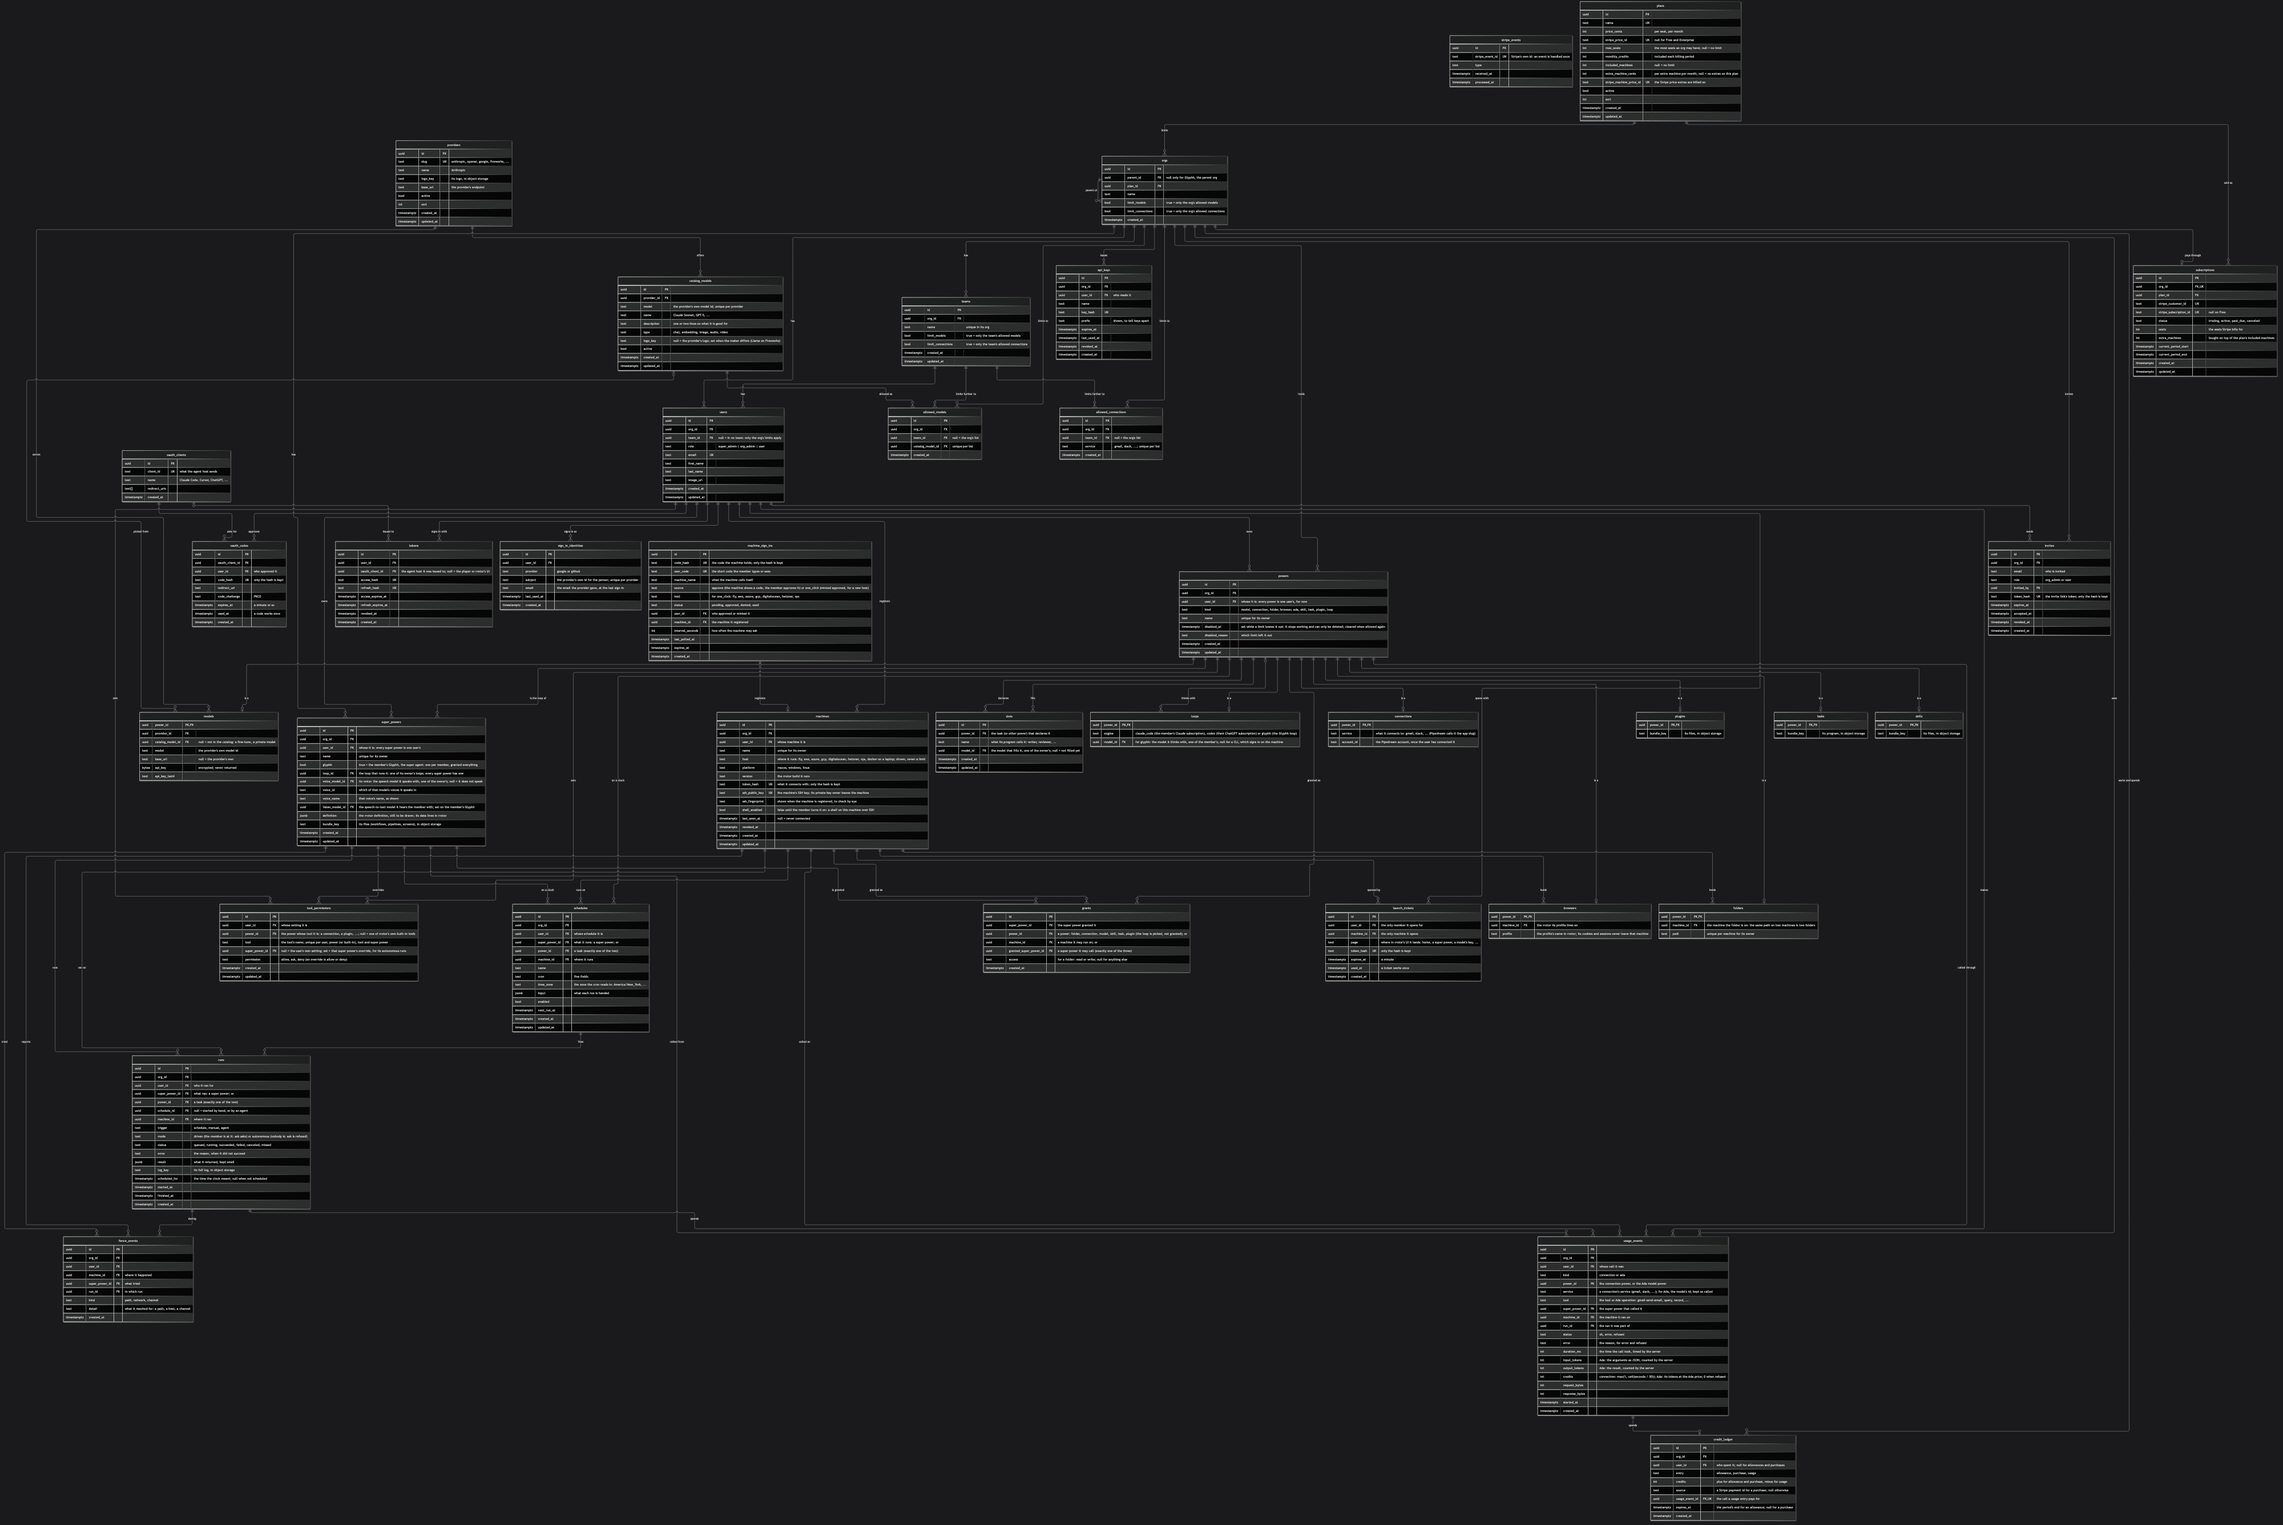
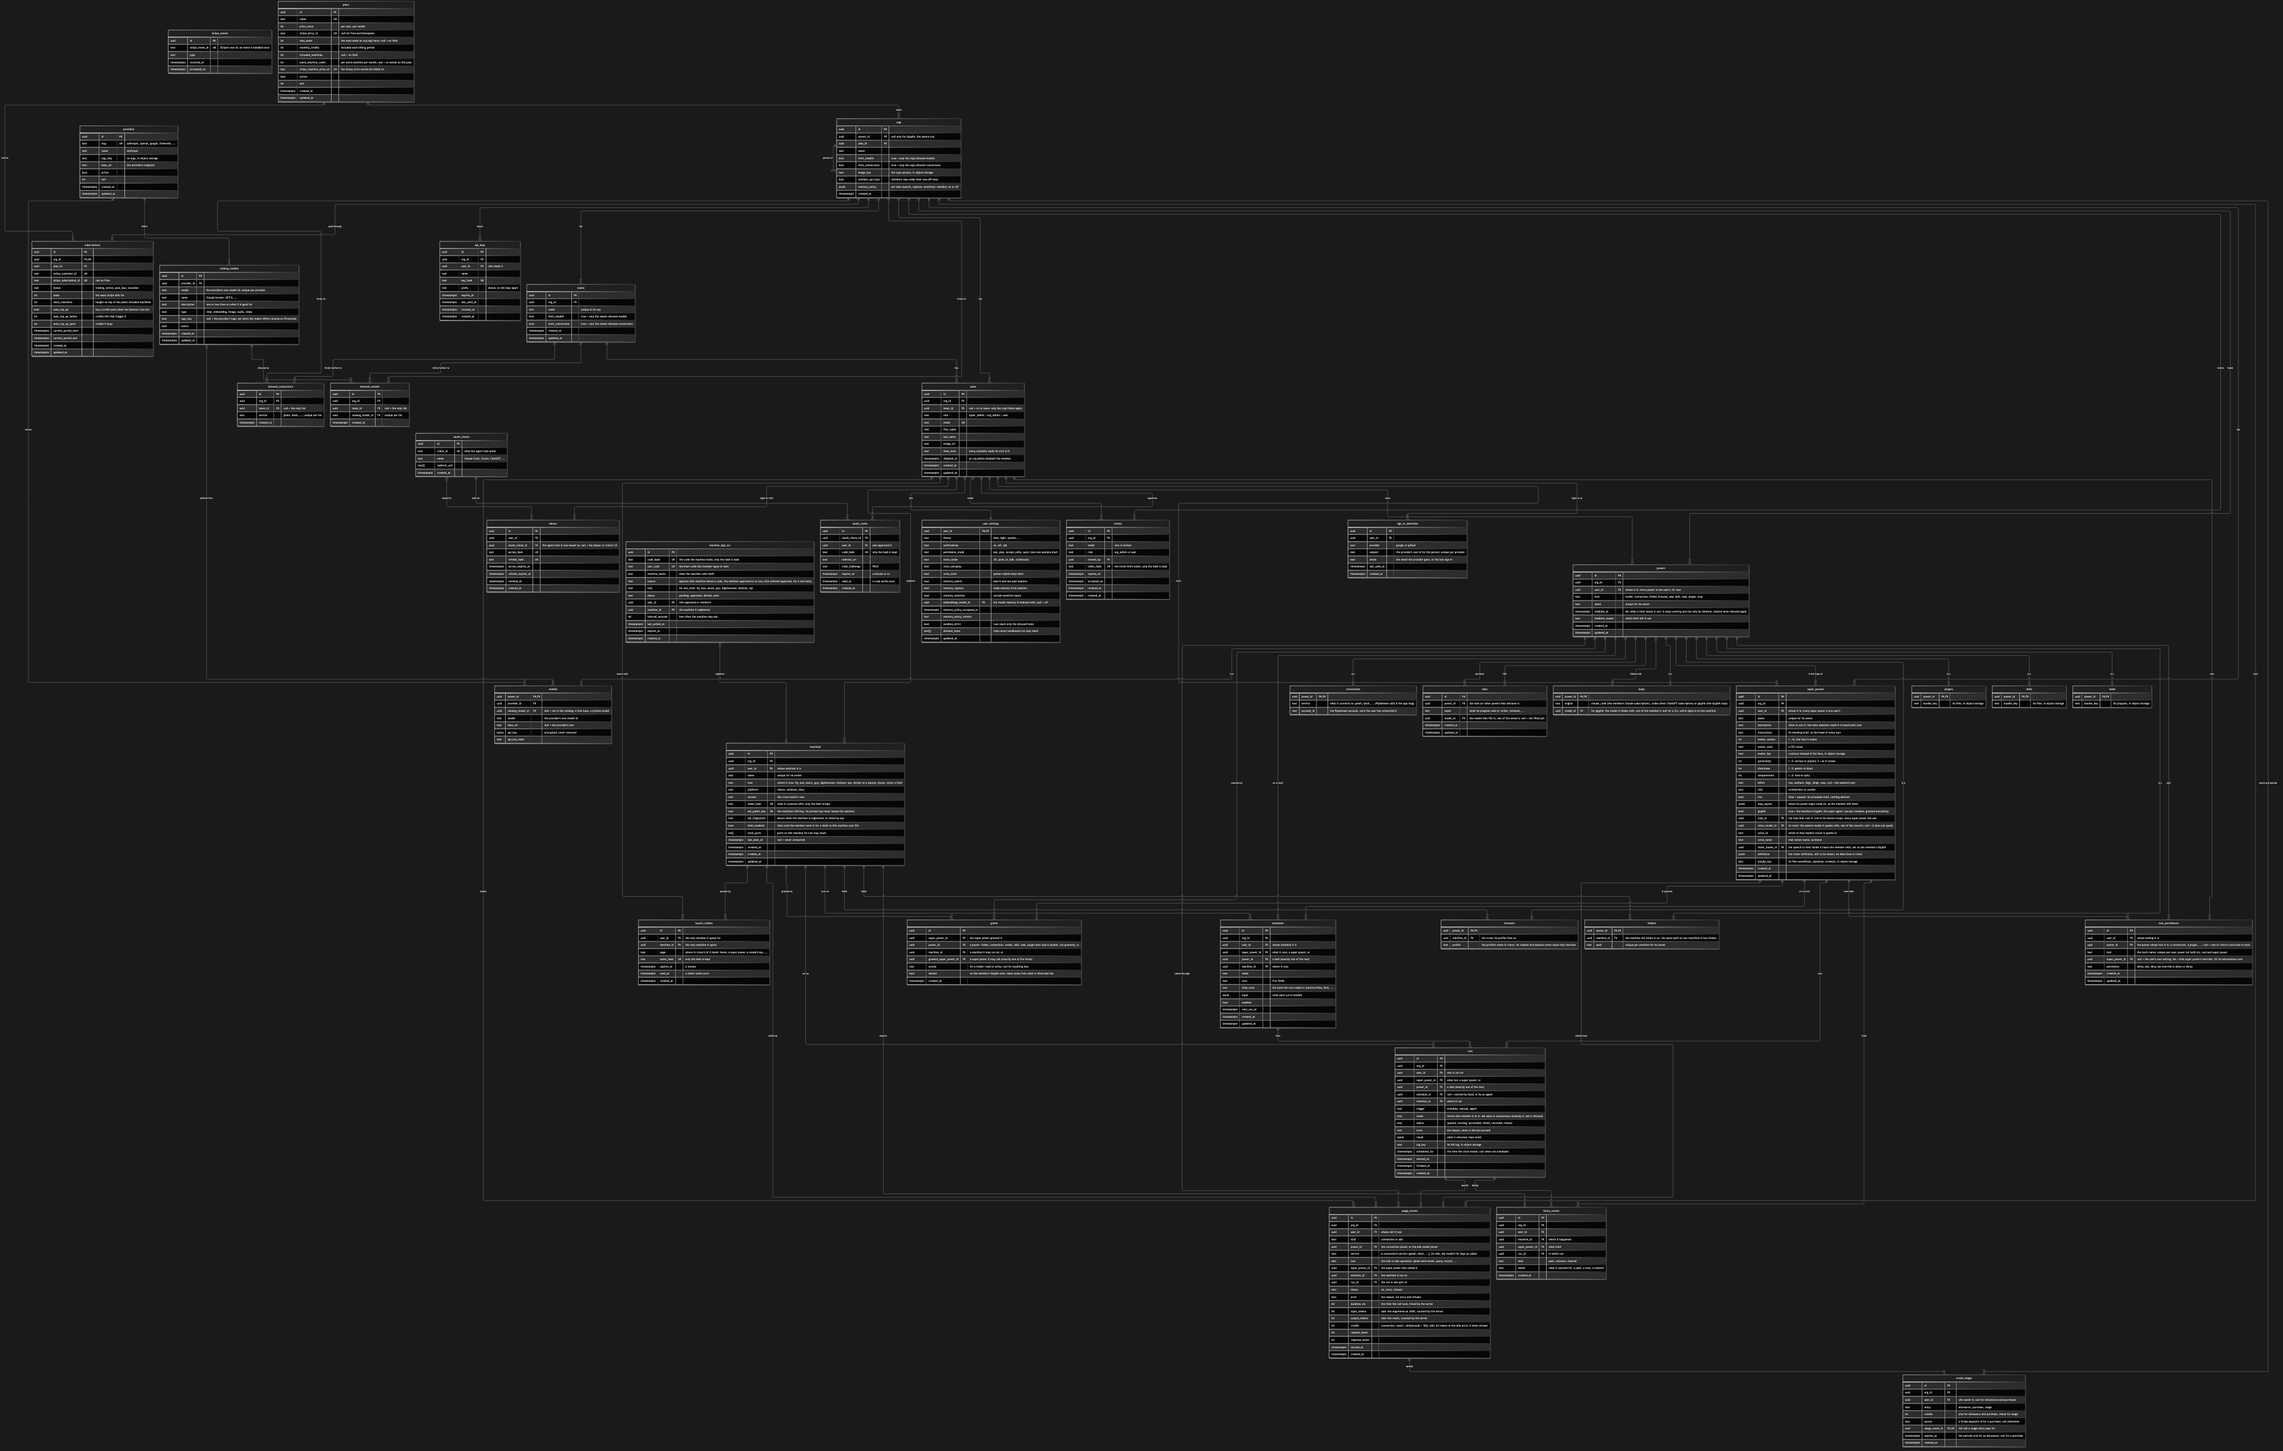
Super power configuration from the old editor, member and org settings from the old Settings pages; the diagram shows two separate machines talking through the relay

diff --git a/docs/data-model.md b/docs/data-model.md
@@ -17,6 +17,7 @@ erDiagram
     powers ||--o{ tool_permissions : "sets"
     super_powers ||--o{ tool_permissions : "overrides"
     users ||--o{ tokens : "signs in with"
+    users ||--|| user_settings : "sets"
     users ||--o{ sign_in_identities : "signs in as"
     oauth_clients ||--o{ oauth_codes : "asks for"
     users ||--o{ oauth_codes : "approves"
@@ -96,6 +97,9 @@ erDiagram
         text name
         bool limit_models "true = only the org's allowed models"
         bool limit_connections "true = only the org's allowed connections"
+        text image_key "the org's picture, in object storage"
+        bool member_api_keys "members may make their own API keys"
+        jsonb memory_policy "per lane (search, capture, sensitive): member, on or off"
         timestamptz created_at
     }
 
@@ -134,7 +138,28 @@ erDiagram
         text first_name
         text last_name
         text image_url
+        text time_zone "every schedule reads its cron in it"
+        timestamptz disabled_at "an org admin disabled the member"
         timestamptz created_at
+        timestamptz updated_at
+    }
+
+    user_settings {
+        uuid user_id PK, FK
+        text theme "dark, light, system, ..."
+        text notifications "on, off, ask"
+        text permission_mode "ask, plan, accept_edits, auto: how new sessions start"
+        text voice_mode "off, push_to_talk, continuous"
+        bool voice_autoplay
+        bool voice_brief "spoken replies kept short"
+        bool memory_search "search and use past sessions"
+        bool memory_capture "make memory from sessions"
+        bool memory_sensitive "include sensitive topics"
+        uuid embeddings_model_id FK "the model memory is indexed with; null = off"
+        timestamptz memory_policy_accepted_at
+        text memory_policy_version
+        bool sandbox_strict "runs reach only the allowed hosts"
+        text[] allowed_hosts "hosts every sandboxed run may reach"
         timestamptz updated_at
     }
 
@@ -240,6 +265,18 @@ erDiagram
         uuid org_id FK
         uuid user_id FK "whose it is: every super power is one user's"
         text name "unique for its owner"
+        text description "when to use it: the main assistant reads it to hand work over"
+        text instructions "its standing brief, at the head of every turn"
+        int avatar_variant "1..16, the face it wears"
+        text avatar_color "a CSS colour"
+        text avatar_key "a picture instead of the face, in object storage"
+        int personality "1..5: serious to playful; 3 = as it comes"
+        int directness "1..5: gentle to blunt"
+        int temperament "1..5: kind to spicy"
+        text effort "low, medium, high, xhigh, max; null = the session's own"
+        text role "orchestrator or worker"
+        bool live "false = paused: its schedules hold, nothing deleted"
+        jsonb map_layout "where its power map's cards sit, as the member left them"
         bool glyphh "true = the member's Glyphh, the super agent: one per member, granted everything"
         uuid loop_id FK "the loop that runs it: one of its owner's loops; every super power has one"
         uuid voice_model_id FK "its voice: the speech model it speaks with, one of the owner's; null = it does not speak"
@@ -259,6 +296,7 @@ erDiagram
         uuid machine_id FK "a machine it may run on; or"
         uuid granted_super_power_id FK "a super power it may call (exactly one of the three)"
         text access "for a folder: read or write; null for anything else"
+        bool denied "on the member's Glyphh only: taken away from what it otherwise has"
         timestamptz created_at
     }
 
@@ -317,6 +355,9 @@ erDiagram
         text status "trialing, active, past_due, canceled"
         int seats "the seats Stripe bills for"
         int extra_machines "bought on top of the plan's included machines"
+        bool auto_top_up "buy a credit pack when the balance runs low"
+        int auto_top_up_below "credits left that trigger it"
+        int auto_top_up_pack "credits it buys"
         timestamptz current_period_start
         timestamptz current_period_end
         timestamptz created_at
@@ -399,6 +440,7 @@ erDiagram
         text ssh_public_key UK "the machine's SSH key; its private key never leaves the machine"
         text ssh_fingerprint "shown when the machine is registered, to check by eye"
         bool shell_enabled "false until the member turns it on: a shell on this machine over SSH"
+        int[] local_ports "ports on this machine its runs may reach"
         timestamptz last_seen_at "null = never connected"
         timestamptz revoked_at
         timestamptz created_at
@@ -538,6 +580,8 @@ A user belongs to one org and has one role in it:
 
 The profile is the user's first name, last name, email and profile image. A Google or GitHub sign-in finds the user by the provider's own id for them (below, Signing in), never by email alone. A user is in at most one team (`team_id`).
 
+**user_settings** holds the member's own settings from the old app's Settings pages: theme, notifications, how new sessions start, voice, memory and its consent, and the sandbox's allowed hosts. What only ever applied to the desktop app's windows (workspaces, tabs, layouts, the dock, window sizes) is gone; a machine's own settings (its granted folders, its local ports, its shell) live on the machine.
+
 ## Teams: limiting models and connections
 
 The org's Models and Connections pages exist only to say which models and connections users may add. They hold no keys and no accounts: a user still adds their own model with their own key, and connects their own account.
@@ -608,6 +652,8 @@ Every tool a power brings (each tool of a connection, of a plugin's MCP server, 
 Each member has one Glyphh, the super agent (`glyphh` true): it has every power, every super power and every machine they have, and needs no grants. Every other super power sits under it and has only its **grants**: each grant gives it one power (a folder, a connection, a model, a skill, a task or a plugin), one machine it may run on, or one other super power it may call. Nothing ungranted is ever handed to it, whether or not anyone is watching. A super power is one user's own, like every power: the org installs none.
 
 **A loop runs it; models are granted.** Every super power has one loop (`loop_id`): Claude Code or Codex on the member's subscription, or the Glyphh loop on one of their models. The member's Glyphh has one too: its loop is the main assistant's. A CLI's sign-in never reaches this database; it stays in the CLI on the machine. Its models are grants like any other power, as many as it needs: the super power uses them directly, and the powers it has use them too (a task's slots).
+
+**A super power's configuration** is everything its edit screen sets (ported field for field from the old app's editor): its name, description, instructions, avatar, voice, personality, directness and temperament sliders, effort, role, whether it is live, and its power map's layout. The member's Glyphh has the same fields, and has everything except what the member takes away from it: those are grants marked `denied`, so a new connection or model reaches Glyphh by itself. Left behind: per-model dollar caps (Glyphh never meters model calls) and the old per-agent guardrails, which nothing enforced.
 
 **Every super power carries a voice,** part of its configuration on its edit screen, beside its avatar and name (ported from the old app's super power editor): a speech model of the member's own (`voice_model_id`) and one of that model's voices (`voice_id`), with a sample to hear before saving. The member's Glyphh also has the model it hears them with (`listen_model_id`). All are the member's own models, called directly on their keys; audio never reaches this database.
 

diff --git a/docs/architecture.md b/docs/architecture.md
@@ -2,20 +2,20 @@
 
 ```mermaid
 flowchart TB
-    subgraph You["You, from anywhere"]
-        Claude["Claude, ChatGPT, Codex, Gemini<br/>+ the Glyphh plugin:<br/>one more window onto Glyphh"]
-        Browser["Any browser<br/>laptop, iPad, phone"]
+    subgraph You["You, anywhere"]
+        Claude["Claude + Glyphh plugin"]
+        Browser["Any browser"]
     end
 
-    subgraph Cloud["Glyphh cloud (ours, headless)"]
-        Pages["Sign-in pages<br/>sign in, allow, approve a code, join"]
-        Player["Player, app.glyphh.ai<br/>opens your rrotor's UI<br/>with a launch ticket"]
-        Server["Server<br/>API + MCP"]
-        DB[("Postgres<br/>durable truth")]
-        Live[("Redis<br/>live state")]
-        Relay["Relay = the gate<br/>passes what it cannot read"]
-        ConnRelay["Connection relay<br/>counts every call"]
-        Ada["Ada<br/>our kernel, billed per token"]
+    subgraph Cloud["Glyphh cloud"]
+        Pages["Sign-in pages"]
+        Player["Player"]
+        Server["Server: API + MCP"]
+        DB[("Postgres")]
+        Live[("Redis")]
+        Relay["Relay (the gate)"]
+        ConnRelay["Connection relay"]
+        Ada["Ada"]
         Server --- DB
         Server --- Live
         Server --- Relay
@@ -25,33 +25,36 @@ flowchart TB
         Player --- Relay
     end
 
-    subgraph Yours["Your machines: each one a rrotor VM = the fence"]
-        R1["rrotor on a hosted server<br/>Glyphh, the main assistant, always on:<br/>Claude Code or Codex (your subscription)<br/>or the Glyphh loop (your key);<br/>super powers, sandboxed runs, MCP surface,<br/>Glyphh's UI, Postgres + pgvector, Neo4j,<br/>Redis, cron, Chromium (RPA)"]
-        R2["the same rrotor, anywhere else<br/>another server, or a laptop<br/>through Docker: just another host"]
+    subgraph A["Machine A"]
+        RA["rrotor<br/>Glyphh, the main assistant<br/>super powers, UI"]
     end
 
-    Hosts["Hosts, one click<br/>Fly, AWS, Azure, GCP,<br/>DigitalOcean, Hetzner, any VPS"]
-    Site["glyphh.ai<br/>public website"]
-    Providers["Model providers<br/>3,900 models, 125 providers,<br/>Jev on your own key"]
-    Pipedream["Pipedream<br/>3,500 connections"]
-    Stripe["Stripe<br/>its own checkout and portal"]
-    SignIn["Google, GitHub"]
+    subgraph B["Machine B"]
+        RB["rrotor<br/>super powers, UI"]
+    end
 
-    Claude -- "MCP, signed in with OAuth" --> Server
-    Claude -- "machine list, then a machine" --> Player
+    Providers["Model providers"]
+    Pipedream["Pipedream"]
+    Hosts["Hosts, one click"]
+    Stripe["Stripe"]
+    SignIn["Google, GitHub"]
+    Site["glyphh.ai"]
+
+    Claude -- "MCP" --> Server
+    Claude --> Player
     Browser --> Player
-    Relay <-. "end to end: UI, SSH, screen" .-> R1
-    Relay <-. "end to end: UI, SSH, screen" .-> R2
-    R1 -- "outbound WS" --> Server
-    R2 -- "outbound WS" --> Server
-    R1 -- "the loop's thinking, direct:<br/>your subscription or your key" --> Providers
-    R2 -- "model calls, direct" --> Providers
-    R1 -- "connection calls" --> ConnRelay
-    R2 -- "connection calls" --> ConnRelay
-    R1 -- "Ada calls" --> Ada
-    R2 -- "Ada calls" --> Ada
-    ConnRelay -- "metered on your subscription" --> Pipedream
-    Hosts -- "runs" --> R1
+    RA <-. "rrotor to rrotor: SSH, end to end" .-> Relay
+    Relay <-. "SSH, end to end" .-> RB
+    RA -- "outbound" --> Server
+    RB -- "outbound" --> Server
+    RA -- "direct" --> Providers
+    RB -- "direct" --> Providers
+    RA -- "connections" --> ConnRelay
+    RB -- "connections" --> ConnRelay
+    RA -- "Ada" --> Ada
+    ConnRelay --> Pipedream
+    Hosts -- "runs" --> RA
+    Hosts -- "runs" --> RB
     Pages --> SignIn
     Server --> Stripe
 ```

diff --git a/docs/status.md b/docs/status.md
@@ -22,6 +22,7 @@ On the [data model](data-model.md), in the order they were drawn:
 - **Schedules and runs:** `schedules` (the server's clock, sent to a machine) and `runs` (the history).
 - **Billing and usage:** the plan's credit and machine columns, `subscriptions`, `credit_ledger`, `usage_events` (logged by the server's connection relay, one per call).
 - **Browsers and hosting:** `browsers` (a browser profile on one full rrotor, granted like a folder), and one-click sign-ins on `machine_sign_ins` for new hosts.
+- **Configuration:** a super power's full edit-screen configuration on `super_powers`, Glyphh's taken-away powers as denied grants, the member's settings (`user_settings`), org settings and auto top-up.
 - **People and machines:** `invites`, `machines` (with where they run, their SSH key, fingerprint and shell switch), `machine_sign_ins`, `fence_events` (what rrotor reports when a run reaches past its fence), `api_keys`; folders are on a machine, and folder grants are read or write.
 - **Signing in and Stripe:** `sign_in_identities` (Google and GitHub by the provider's own id), `oauth_clients` and `oauth_codes` (the plugin's sign-in), `launch_tickets` (open one machine's UI, once, for a minute), `stripe_events` (each webhook handled once).
 
@@ -33,6 +34,7 @@ Decisions still to make. Where a proposal is written, it is a proposal, not a de
 
 - **Conversations:** not drawn. Proposal: the server keeps each conversation's record (title, super power, machine, run, status, times), rrotor keeps the messages, and rrotor's UI opens them through the player through the relay.
 - **Codex hosting terms:** confirm OpenAI's terms for hosting Codex signed in with a member's ChatGPT subscription; Glyphh accepts Anthropic's Commercial Terms for Claude Code.
+- **Memory:** the member's memory settings are drawn; where memory itself lives (rrotor, most likely) is not.
 - **Ada in credits:** how the Ada price per token is stated in credits.
 - **Super powers in Discover:** whether a super power becomes one more power type (`super_powers` folds into `powers`) or keeps its own table and is listed the same way.
 - **Requirements and listings:** the tables for power dependencies and the Discover catalog, drawn when built.
